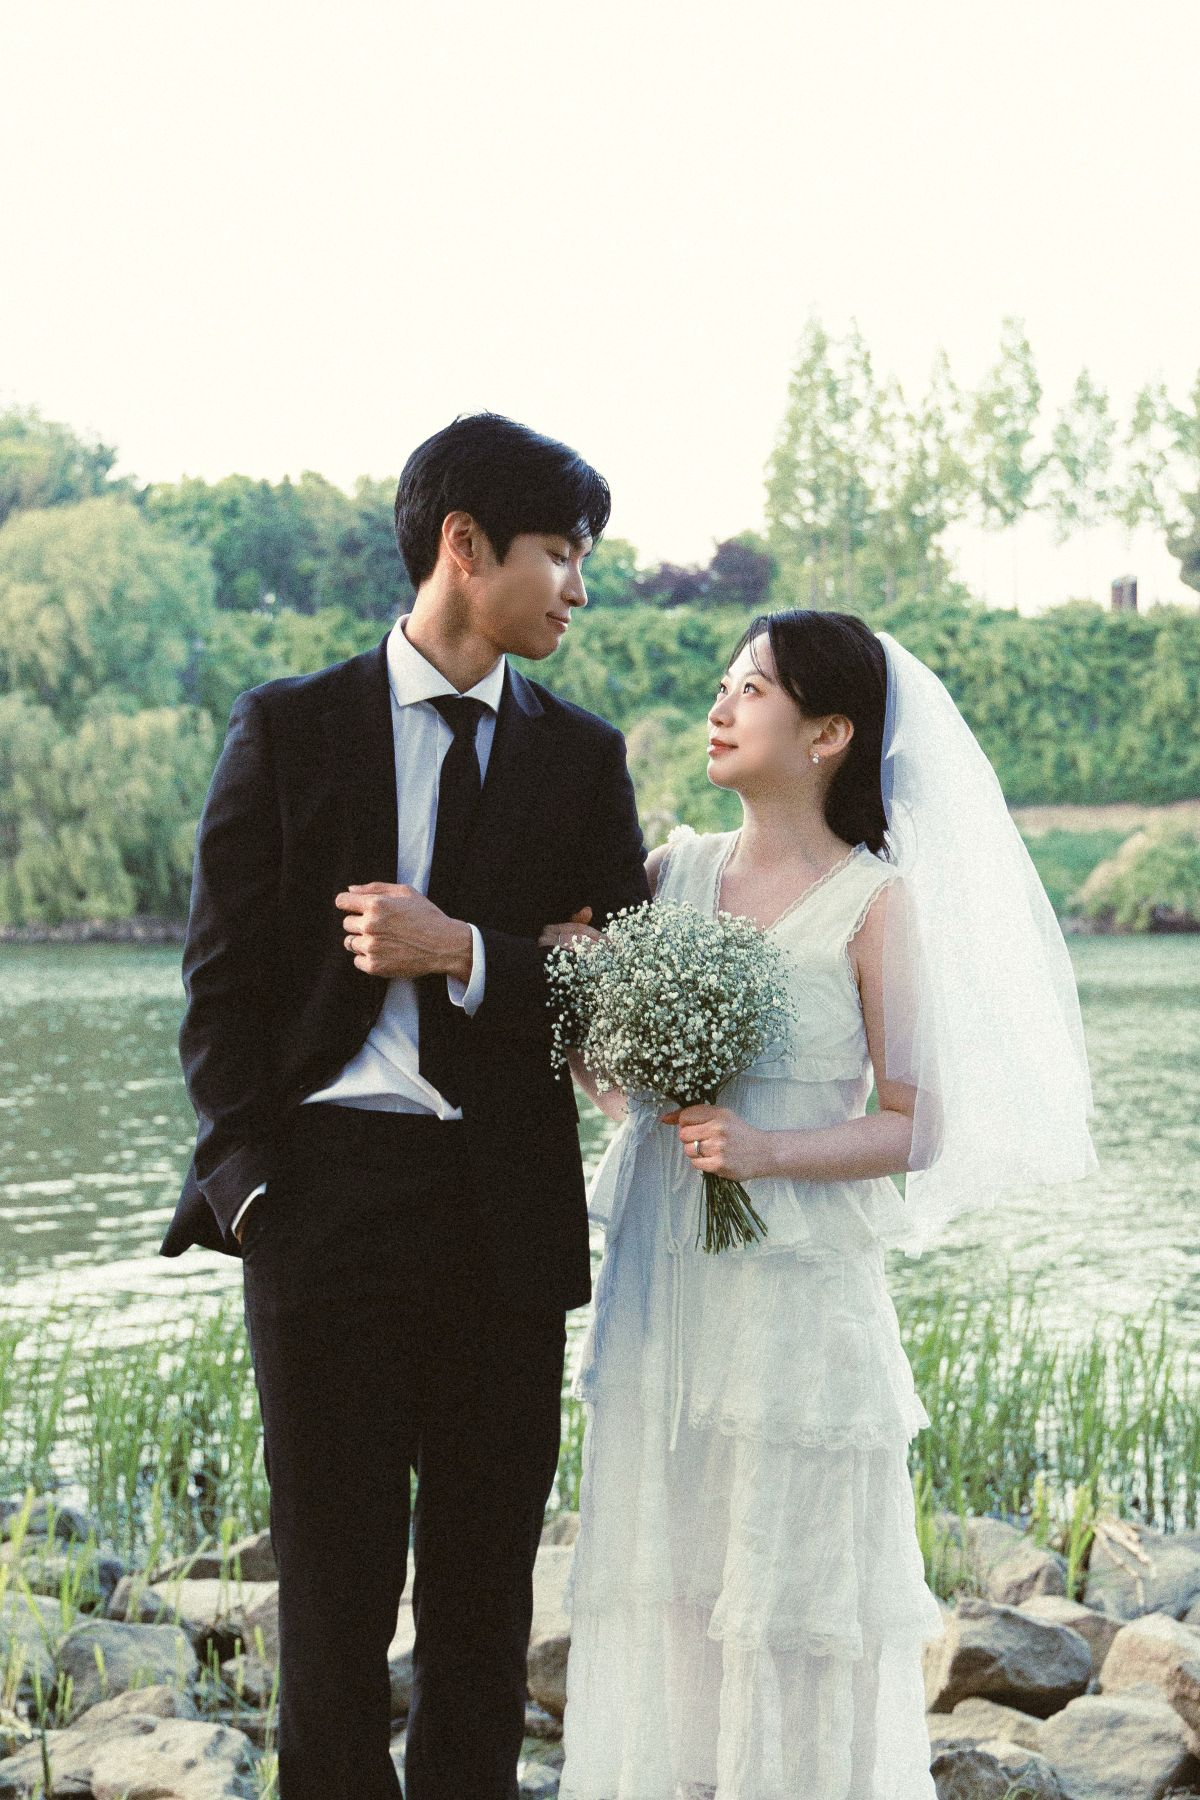
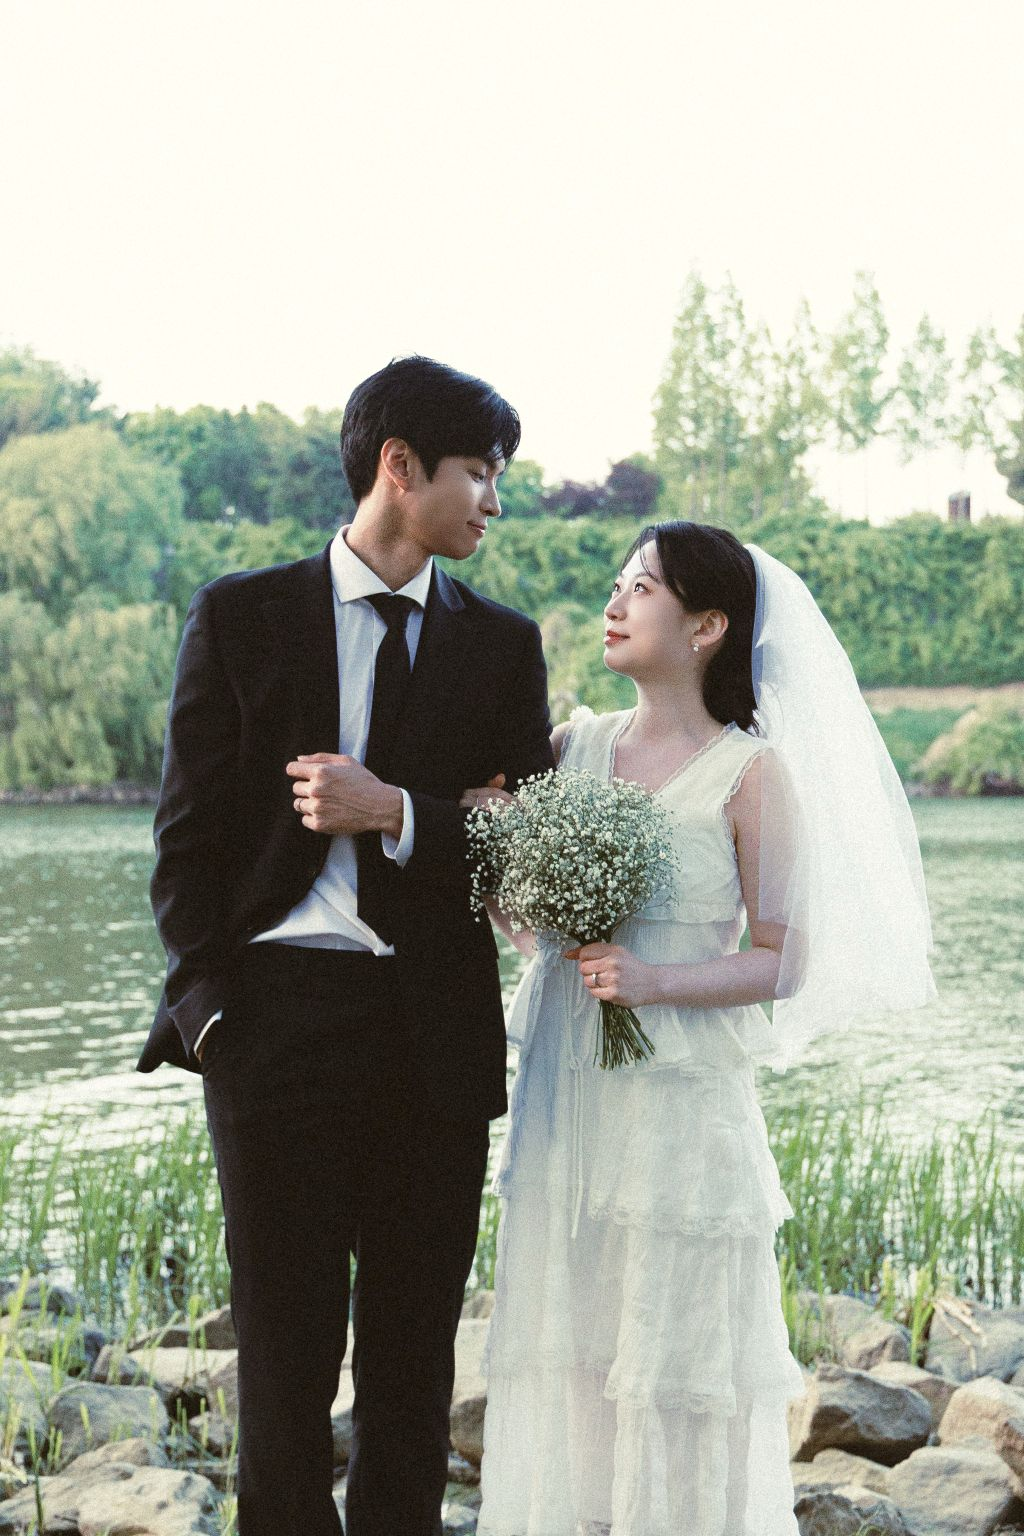
vol

diff --git a/assets/script-v4.js b/assets/script-v4.js
@@ -219,7 +219,7 @@ function initWeddingAudio() {
   if (!weddingAudio) {
     weddingAudio = new Audio('./assets/images/bgm.mp3');
     weddingAudio.loop = true; // 무한 반복 설정
-    weddingAudio.volume = 0.05; 
+    weddingAudio.volume = 0.03; 
   }
 }
 
